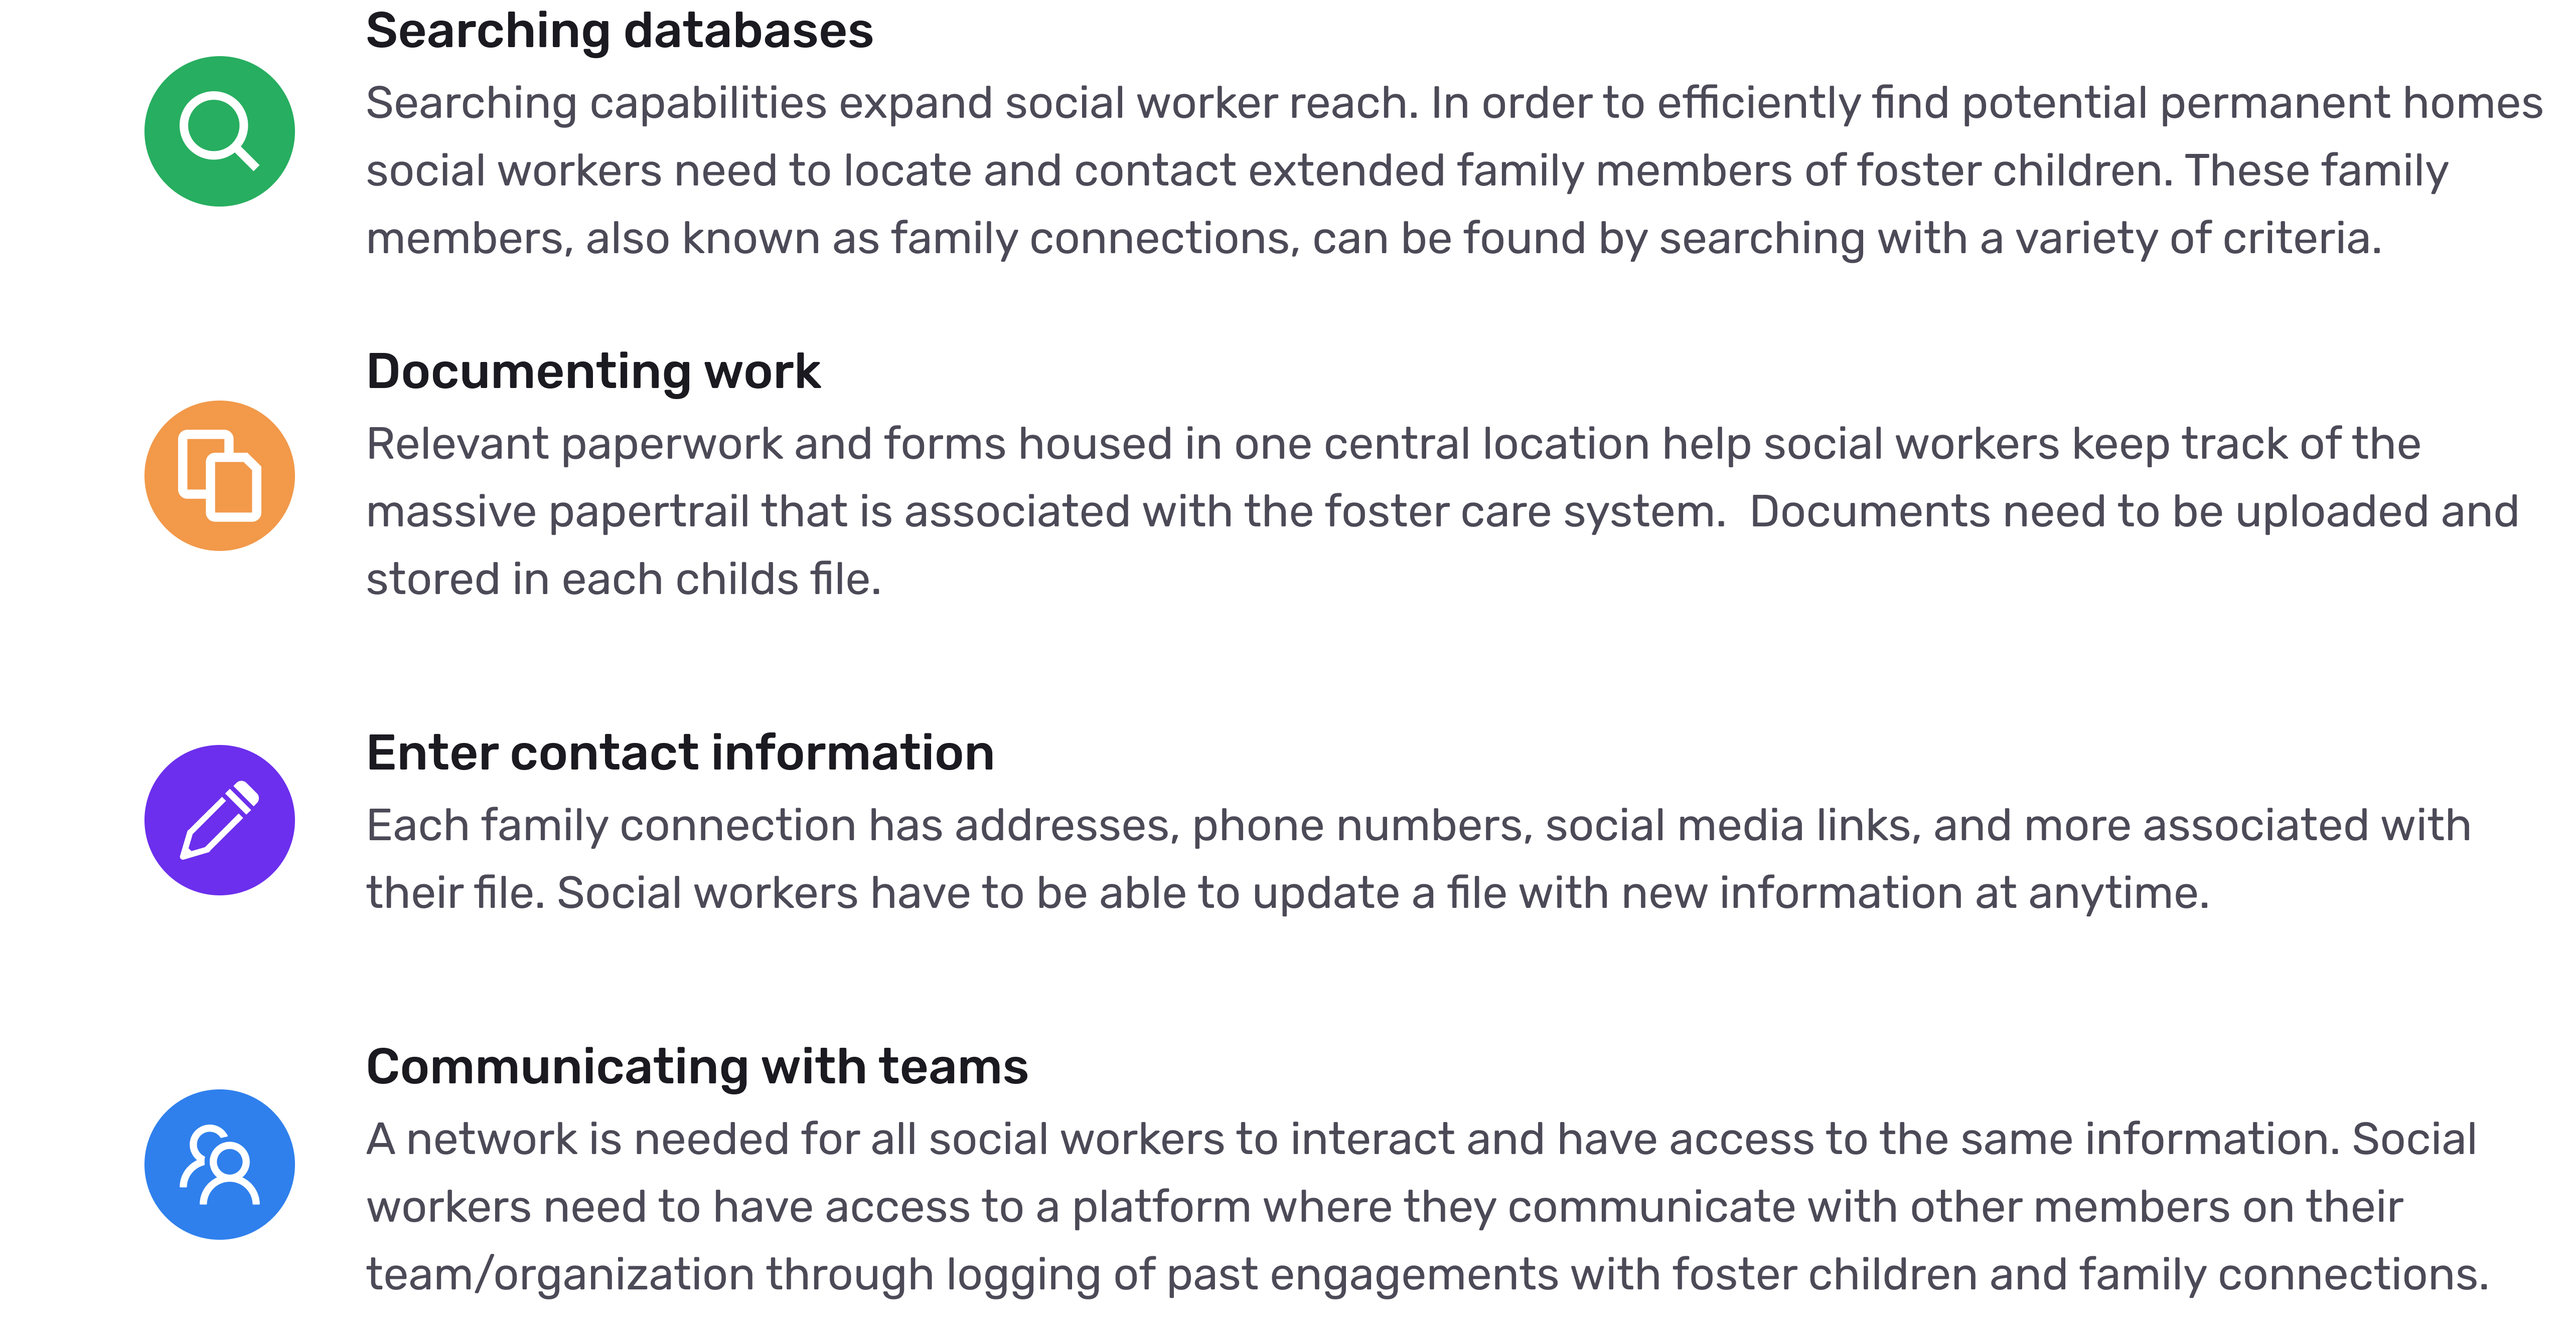
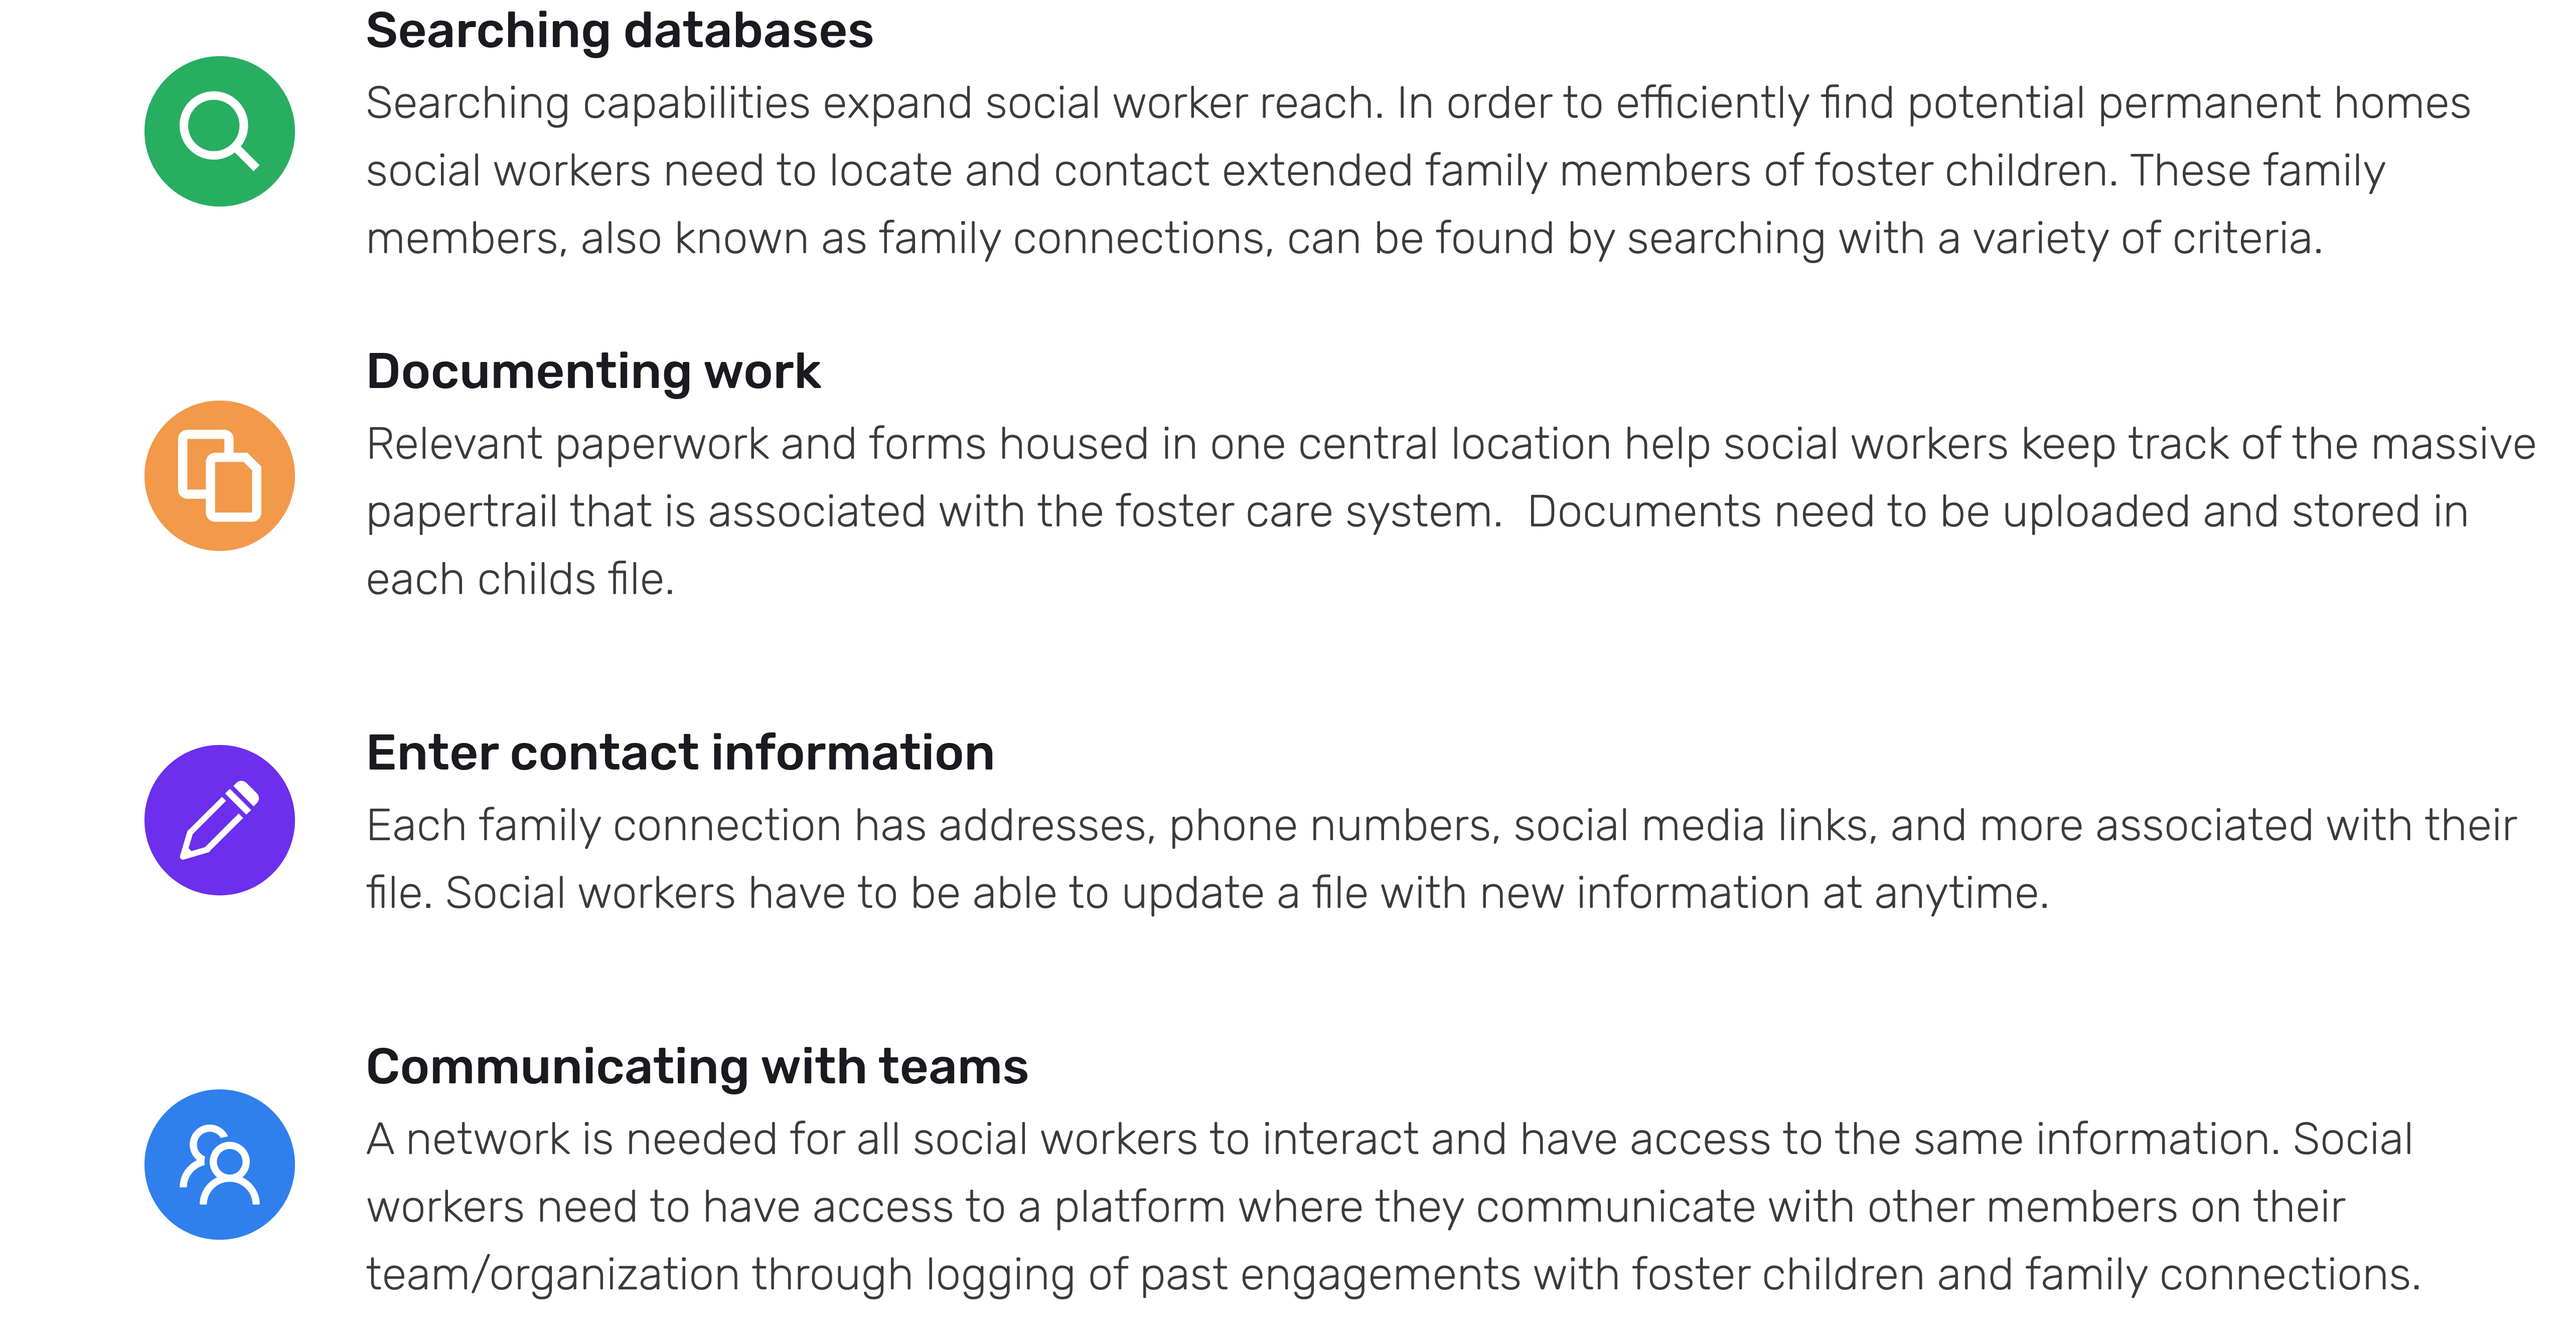
font styles

diff --git a/css/casestudy.css b/css/casestudy.css
@@ -38,8 +38,8 @@ h3 {
 
 p {
   font-size: 1.5em;
-  color: #4c4a57;
-  font-weight: 400;
+  color: #3b3b3b;
+  font-weight: 300;
   line-height: 30px;
 }
 
@@ -80,7 +80,7 @@ a {
   font-size: 2.2em;
   font-weight: 300;
   font-style: italic;
-  color: #4c4a57;
+  color: #3b3b3b;
 }
 
 .hero-img {
@@ -194,7 +194,7 @@ a {
 
 ol {
   font-size: 1.5em;
-  color: #4c4a57;
+  color: #3b3b3b;
   font-weight: 400;
 }
 

diff --git a/css/homepage.css b/css/homepage.css
@@ -21,7 +21,7 @@ h2 {
   font-weight: 400;
   margin:0;
   margin-bottom: 30px;
-    color: #4c4a57;
+    color: #3B3B3B;
   font-style: italic;
 }
 
@@ -35,8 +35,8 @@ h3 {
 
 p {
   font-size: 1.5rem;
-  color: #4c4a57;
-  font-weight: 400;
+  color: #3B3B3B;
+  font-weight: 300;
   margin-top: 10px;
   flex-grow: .15;
 }

diff --git a/connect-our-kids/index.html b/connect-our-kids/index.html
@@ -144,7 +144,7 @@
           details for family connections.
         </p>
       </div>
-      <img class="chart2" src="/images/FamConBreakdownV2.png" />
+      <img class="chart2" src="/images/FamConBreak3.png" />
 
       <h2 class="center-head">
         Key features

diff --git a/css/aboutme.css b/css/aboutme.css
@@ -17,7 +17,7 @@ h2 {
 }
 p {
   font-size: 1.5rem;
-  color: #4c4a57;
+  color: #3b3b3b;
   line-height: 30px;
 
   margin-top: 0px;
